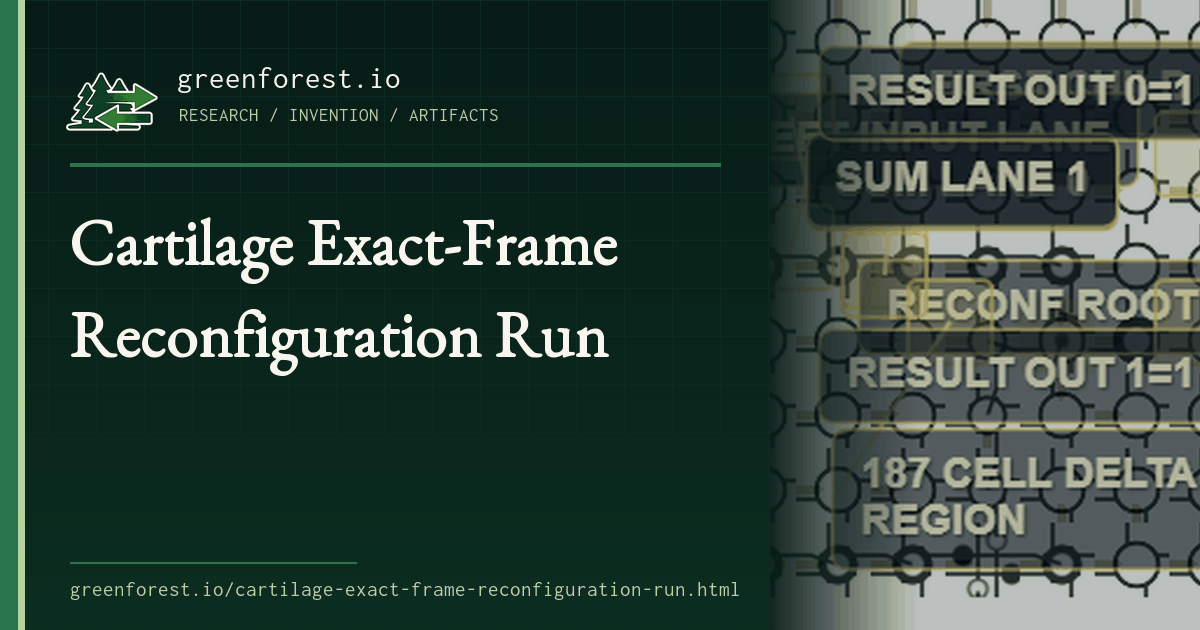
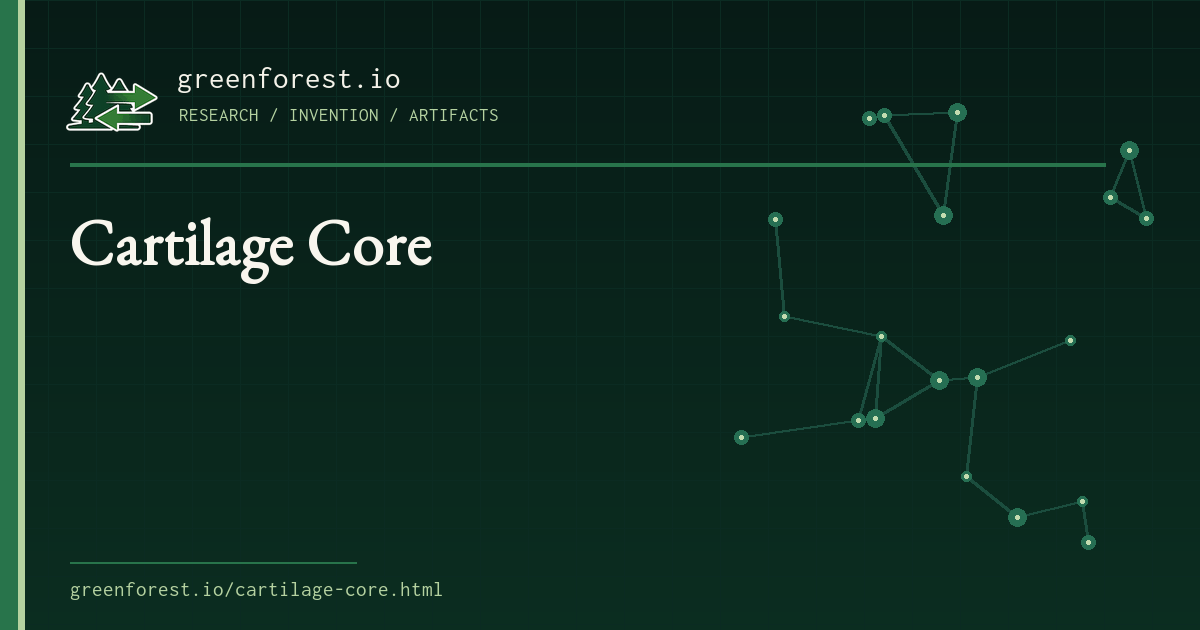
Retire broken Cartilage reconfiguration page

diff --git a/cartilage-exact-frame-reconfiguration-run.html b/cartilage-exact-frame-reconfiguration-run.html
@@ -1,200 +1,44 @@
-<!doctype html>
+<!DOCTYPE html>
 <html lang="en">
 
 <head>
     <meta charset="utf-8">
-    <meta name="viewport" content="width=device-width, initial-scale=1">
+    <meta name="viewport" content="width=device-width, initial-scale=1, viewport-fit=cover">
+    <title>Cartilage Core | Greenforest I/O</title>
+    <meta name="description" content="This retired Cartilage run page has been replaced by Cartilage Core, the current implementation, architecture paper, SystemVerilog RTL, and verification package.">
     <meta name="robots" content="noindex, follow">
-    <title>Cartilage Exact-Frame Reconfiguration Run</title>
-    <meta name="description" content="A full exact-frame Cartilage/QuadFlow browser-fabric run: 64x64 seed fabric, 525,568 committed updates, 525,569 decoded video frames, 7,956 QFG frames, and 704 expectations passing while a ripple-carry adder body is reconfigured 2-bit to 3-bit and back.">
-    <link rel="canonical" href="https://greenforest.io/cartilage-exact-frame-reconfiguration-run.html">
-    <meta property="og:title" content="Cartilage Exact-Frame Reconfiguration Run">
-    <meta property="og:description" content="A checked browser-fabric reconfiguration artifact with one recorded frame for the initial state and one after every committed update.">
-    <meta property="og:type" content="article">
-    <meta property="og:url" content="https://greenforest.io/cartilage-exact-frame-reconfiguration-run.html">
-        <link rel="icon" href="/favicon.ico">
-    <!-- greenforest:share-metadata:start -->
-    <!-- greenforest:preview-source:cartilage/codex5.5/reconfigurable-ripple-2to3to2-preserveguard-d64-final-detail.png -->
+    <link rel="canonical" href="https://greenforest.io/cartilage-core.html">
+    <meta http-equiv="refresh" content="0; url=/cartilage-core.html">
+    <link rel="icon" href="/favicon.ico">
     <meta property="og:site_name" content="Greenforest I/O">
+    <meta property="og:title" content="Cartilage Core">
+    <meta property="og:description" content="The current compact Cartilage implementation, architecture paper, RTL, and verification package.">
+    <meta property="og:type" content="website">
+    <meta property="og:url" content="https://greenforest.io/cartilage-core.html">
+    <!-- greenforest:share-metadata:start -->
+    <!-- greenforest:preview-source:none -->
     <meta property="og:image" content="https://greenforest.io/social-previews/cartilage-exact-frame-reconfiguration-run.png">
     <meta property="og:image:secure_url" content="https://greenforest.io/social-previews/cartilage-exact-frame-reconfiguration-run.png">
     <meta property="og:image:type" content="image/png">
     <meta property="og:image:width" content="1200">
     <meta property="og:image:height" content="630">
-    <meta property="og:image:alt" content="Cartilage Exact-Frame Reconfiguration Run - Greenforest I/O share preview">
+    <meta property="og:image:alt" content="Cartilage Core - Greenforest I/O share preview">
     <meta name="twitter:card" content="summary_large_image">
     <meta name="twitter:image" content="https://greenforest.io/social-previews/cartilage-exact-frame-reconfiguration-run.png">
-    <meta name="twitter:image:alt" content="Cartilage Exact-Frame Reconfiguration Run - Greenforest I/O share preview">
+    <meta name="twitter:image:alt" content="Cartilage Core - Greenforest I/O share preview">
     <script src="/site-analytics.js" defer></script>
     <!-- greenforest:share-metadata:end -->
-    <script type="application/ld+json">
-        {
-            "@context": "https://schema.org",
-            "@type": "Article",
-            "headline": "Cartilage Exact-Frame Reconfiguration Run",
-            "author": {
-                "@type": "Person",
-                "name": "Brian Greenforest"
-            },
-            "datePublished": "2026-06-25",
-            "dateModified": "2026-07-10",
-            "image": "https://greenforest.io/cartilage/codex5.5/reconfigurable-ripple-2to3to2-preserveguard-d64-final-detail.png",
-            "description": "A full exact-frame Cartilage/QuadFlow browser-fabric run: 64x64 seed fabric, 525,568 committed updates, 525,569 decoded video frames, 7,956 QFG frames, and 704 expectations passing while a ripple-carry adder body is reconfigured 2-bit to 3-bit and back.",
-            "mainEntityOfPage": "https://greenforest.io/cartilage-exact-frame-reconfiguration-run.html",
-            "publisher": {
-                "@type": "Person",
-                "name": "Brian Greenforest"
-            }
-        }
-    </script>
     <script src="/common-script.js" type="text/javascript"></script>
 </head>
 
-<body>
-    <header>Cartilage Exact-Frame Reconfiguration Run</header>
-    <address>June 25, 2026</address>
-
-    <section class="abstract">
-        <p>The fabric body changes while the edge discipline stays readable.</p>
-        <p>This package records one complete browser-hosted Cartilage fabric run. A seeded 64x64 fabric is driven through 525,568 committed updates by a QuadFlow/Cartilage QFG stream, while a ripple-carry adder body is reconfigured from a 2-bit body to a 3-bit body and then back to a preserved 2-bit body.</p>
-        <p>The important engineering claim is the lockstep capture rule: the recorder stores one initial frame, then one video frame after every committed fabric update. The compressed publication MP4 and the local canonical WebM both decode to 525,569 frames.</p>
-        <div class="status-box">
-            <p><span class="status-label">Recorded run package</span>This page is part of the <a href="/ai-assisted-cartilage-draft-archive.html">Cartilage Run and Sketch Index</a>.</p>
-            <p><strong>Included:</strong> <code>64x64</code> seed fabric, <code>525,568</code> committed updates, <code>525,569</code> decoded frames, <code>7,956</code> QFG frames, <code>704/704</code> expectations passed, and the 2-bit to 3-bit to 2-bit reconfiguration arc.</p>
-            <p><strong>Package focus:</strong> the exact 525,568-update run, final frame, timeline checkpoints, generated media, and source artifacts that reproduce this render path.</p>
-        </div>
-    </section>
-
+<body class="article-structured">
+    <header><h1 class="page-title">Cartilage Core</h1></header>
     <main>
-        <section>
-            <h1>The Run Claim</h1>
-            <p>This is not a sampled timeline page. The exact-frame package records every committed update in the run: 525,568 fabric updates plus the initial state. The QFG stream contains 7,956 parsed frame declarations and 704 expectations; all 704 passed.</p>
-            <ul class="metric-list">
-                <li>Fabric grid: 64 x 64 cells.</li>
-                <li>Seed cells: 4,096 explicit primitive cells.</li>
-                <li>QFG frames: 7,956.</li>
-                <li>Fabric updates: 525,568.</li>
-                <li>Recorded frames: 525,569.</li>
-                <li>Expectation result: 704 / 704 passed.</li>
-                <li>Final active boundary outputs: right edge positions 16 and 34.</li>
-            </ul>
-        </section>
-
-        <section>
-            <h1>Publication Video</h1>
-            <figure class="timeline-media">
-                <video controls preload="metadata" poster="/cartilage/codex5.5/reconfigurable-ripple-2to3to2-preserveguard-d64-final-detail.png">
-                    <source src="/cartilage/codex5.5/reconfigurable-ripple-2to3to2-preserveguard-d64-exact-525568-compressed.mp4" type="video/mp4">
-                    <a href="/cartilage/codex5.5/reconfigurable-ripple-2to3to2-preserveguard-d64-exact-525568-compressed.mp4">Open the compressed MP4</a>
-                </video>
-                <figcaption>Compressed H.264 publication copy of the exact-frame capture. The verification JSON reports 525,569 decoded MP4 frames, matching the local canonical WebM frame count.</figcaption>
-            </figure>
-            <p>The canonical VP9 WebM is preserved locally in the same package, but it is about 221 MB and is intentionally not committed to this web repository. The committed MP4 is about 25 MB and keeps the same decoded frame count for publication.</p>
-        </section>
-
-        <section>
-            <h1>Final State</h1>
-            <figure class="timeline-media">
-                <a href="/cartilage/codex5.5/reconfigurable-ripple-2to3to2-preserveguard-d64-final.png">
-                    <img src="/cartilage/codex5.5/reconfigurable-ripple-2to3to2-preserveguard-d64-final-detail.png" alt="Cropped detail of the final Cartilage fabric state for the exact-frame reconfigurable ripple-carry adder run">
-                </a>
-                <figcaption>Cropped detail from the final committed frame. Open the image for the full 512x512 final render.</figcaption>
-            </figure>
-        </section>
-
-        <section>
-            <h1>What Reconfigured</h1>
-            <p>The QFG source describes a browser/GLSL-native reconfigurable ripple-carry adder run. The run starts as a stable 2-bit body, streams a physical 187-cell delta component into a root-owned Cartilage subtree, grows the body to 3 bits, and later drives the same region back to the preserved 2-bit body.</p>
-            <p>The run note identifies the reconfiguration root as <code>(25,28)</code> with parent top and first child <code>(25,29)</code>. It reports a maximum tree depth of 57 and a dwell value of 64. The target sequence after the initial 2-bit check is <code>3 -&gt; 2</code>.</p>
-        </section>
-
-        <section>
-            <h1>Boundary I/O Discipline</h1>
-            <p>The browser host receives primitive seed cells and boundary/edge value frames. During execution, the driver does not address arbitrary internal cells by global coordinate. It streams values through the exposed edge surface and advances the fabric one committed update at a time.</p>
-            <p>The key runtime repair for this package is that edgecell <code>pwr</code>/<code>gnd</code> declarations are treated as boundary metal drives, not as whole boundary-cell rewrites. That preserves parent pointers and configuration ownership while still allowing the host to drive the inward-facing Sinew metal bit.</p>
-            <pre><code>edgecell left 4 pwr parent right
-now drives only left.sinew_right[4]
-instead of rewriting the whole boundary cell body</code></pre>
-        </section>
-
-        <section>
-            <h1>Lockstep Timing</h1>
-            <p>For each QFG frame, the driver stages the sparse boundary writes, performs exactly one fabric update, and records the resulting canvas frame. The package note describes the rule as one initial frame before computation plus one frame after each committed fabric update.</p>
-            <p>That is why the arithmetic is in the counts: <code>525,568</code> fabric updates produce <code>525,569</code> recorded frames. The video is not a screen recording that happens to show a run. It is a frame-source capture driven by the browser canvas after each committed update.</p>
-        </section>
-
-        <section>
-            <h1>Checkpoint Frames</h1>
-            <p>The package also includes 20 checkpoint PNGs for quick inspection. These are not a replacement for the exact-frame video; they are convenient stills from the same run.</p>
-            <div class="checkpoint-grid">
-                <figure>
-                    <a href="/cartilage/codex5.5/frames/codex55-reconfigurable-ripple-exact-cycle-000000.png">
-                        <img src="/cartilage/codex5.5/frames/codex55-reconfigurable-ripple-exact-cycle-000000.png" alt="Checkpoint frame at cycle 0">
-                    </a>
-                    <figcaption>Cycle 0.</figcaption>
-                </figure>
-                <figure>
-                    <a href="/cartilage/codex5.5/frames/codex55-reconfigurable-ripple-exact-cycle-276615.png">
-                        <img src="/cartilage/codex5.5/frames/codex55-reconfigurable-ripple-exact-cycle-276615.png" alt="Checkpoint frame at cycle 276,615">
-                    </a>
-                    <figcaption>Cycle 276,615.</figcaption>
-                </figure>
-                <figure>
-                    <a href="/cartilage/codex5.5/frames/codex55-reconfigurable-ripple-exact-cycle-525568.png">
-                        <img src="/cartilage/codex5.5/frames/codex55-reconfigurable-ripple-exact-cycle-525568.png" alt="Checkpoint frame at cycle 525,568">
-                    </a>
-                    <figcaption>Cycle 525,568.</figcaption>
-                </figure>
-            </div>
-        </section>
-
-        <section>
-            <h1>Artifact Bundle</h1>
-            <p>The committed publication bundle is under <code>cartilage/codex5.5/</code>. These links point to concrete files; the oversized canonical WebM is intentionally excluded from git.</p>
-            <ul class="artifact-list">
-                <li><a href="/cartilage/codex5.5/reconfigurable-ripple-2to3to2-preserveguard-d64.md">package note</a> - human-readable summary of the run, artifacts, counts, and runtime repair.</li>
-                <li><a href="/cartilage/codex5.5/reconfigurable-ripple-2to3to2-preserveguard-d64-verification.json">verification JSON</a> - generated frame counts, byte counts, and ffprobe summaries for WebM and MP4.</li>
-                <li><a href="/cartilage/codex5.5/reconfigurable-ripple-2to3to2-preserveguard-d64-final.png">full final PNG</a> and <a href="/cartilage/codex5.5/reconfigurable-ripple-2to3to2-preserveguard-d64-final-detail.png">cropped final detail</a> - final committed visual state and publication preview crop.</li>
-                <li><a href="/cartilage/codex5.5/reconfigurable-ripple-2to3to2-preserveguard-d64-run-report.md">raw run report</a> - browser expectation trace and run metadata.</li>
-                <li><a href="/cartilage/codex5.5/samples/cartilage3-host.html">generated self-contained browser host</a> - the published QFG driver/host artifact; treat it as generated run machinery, not as a hand-maintained article.</li>
-                <li><a href="/cartilage/codex5.5/codex55-full-exact-stdout.log">stdout log</a> and <a href="/cartilage/codex5.5/codex55-full-exact-stderr.log">stderr log</a> - the stderr log is empty for this run.</li>
-                <li><a href="/cartilage/codex5.5/samples/tmp-reconfigurable-ripple-2to3to2-preserveguard-d64.qfg">main QFG sample</a> - generated 2-bit to 3-bit to 2-bit stream.</li>
-                <li><a href="/cartilage/codex5.5/samples/reconfigurable-ripple-2to3to2-preserveguard-d64-callouts.surface.qfg">callout surface QFG</a> - publication labels for the final rendered fabric.</li>
-                <li><a href="/cartilage/codex5.5/samples/browser-edgecell-as-sinew-metal-preserve.qfg">edge I/O regression fixture</a> - checks the ownership-preserving edgecell behavior.</li>
-                <li><a href="/cartilage/codex5.5/docs/QUADFLOW_CARTILAGE_SEMANTICS.md">QuadFlow Cartilage semantics</a>, <a href="/cartilage/codex5.5/docs/CARTILAGE3_SUBSTRATE_MAP.md">substrate map</a>, and <a href="/cartilage/codex5.5/docs/CARTILAGE_BROWSER_FABRIC_GOALS.md">browser fabric goals</a>.</li>
-            </ul>
-        </section>
-
-        <section>
-            <h1>Why This Package Shape</h1>
-            <p>The exact-frame capture is useful because it ties the video frame count to the fabric update count. The cost is file size: the canonical lossier-but-exact-frame WebM is still too large for normal git hosting, and the publication page uses the smaller MP4 copy for browser playback.</p>
-            <p>The next useful layer is not a more dramatic video. It is tighter reproduction packaging around the QFG generator, host driver, runtime ownership checks, and compact summaries of the 704 expectations.</p>
-        </section>
-        <section class="cartilage-visual-link">
-            <h1>Cartilage Visual Language</h1>
-            <p>The 32 Cartilage cell-role codes are a compact body-type alphabet: reconfiguration port, cross, constants, four wire orientations, and six MUX modes in four orientations. The <a href="/cartilage-visual-language.html">Cartilage Visual Language</a> article shows the rendered key and decodes all 32 codes.</p>
-        </section>
-
-        <section>
-            <h1>Current Core Reference</h1>
-            <p><a href="/cartilage-core.html">Cartilage Core</a> and the <a href="https://github.com/avesus/cartilage-core" target="_blank" rel="noopener">public source repository</a> are the current compact mechanism and hardware reference. They are not the source tree for this older QFG exact-frame run; use this page's bundle for claims about the capture above.</p>
-        </section>
-
-        <section>
-            <h1>Handoff Boundary</h1>
-            <p>The important audit points are boundary I/O discipline, frame accounting, and the QFG-to-fabric handoff. Those are the places where a hidden global assumption would matter.</p>
+        <section class="abstract">
+            <p>This retired run page is no longer presented as Cartilage evidence.</p>
+            <p>Continue to <a href="/cartilage-core.html">Cartilage Core</a> for the current compact implementation, architecture paper, SystemVerilog RTL, and verification package.</p>
         </section>
     </main>
-
-    <nav class="article-links">
-        <p>Read next:</p>
-        <a href="/ai-assisted-cartilage-draft-archive.html">Cartilage Run and Sketch Index</a>
-        <p>A guide to the Cartilage run, timeline, and sketch pages.</p>
-        <p>More:</p>
-        <a href="/cartilage-nested-instantiation-demo.html">Cartilage Nested-Instantiation Demo</a>
-        <p>The local-port and bounded-region fabric model behind the reconfiguration run.</p>
-        <a href="/">Go back</a>
-    </nav>
 </body>
 
 </html>

diff --git a/ai-assisted-cartilage-draft-archive.html b/ai-assisted-cartilage-draft-archive.html
@@ -59,11 +59,6 @@
                 },
                 {
                     "@type": "CreativeWork",
-                    "name": "Cartilage Exact-Frame Reconfiguration Run",
-                    "url": "https://greenforest.io/cartilage-exact-frame-reconfiguration-run.html"
-                },
-                {
-                    "@type": "CreativeWork",
                     "name": "Cartilage PC Stepper Islands",
                     "url": "https://greenforest.io/cartilage-pc-stepper-islands.html"
                 },
@@ -97,7 +92,7 @@
         <p>The set includes public source and RTL, a checked ripple-adder run, recorded reconfiguration timelines, visual placement sketches, source artifacts, and render outputs. The useful job is to keep each evidence layer easy to tell apart.</p>
         <div class="status-box">
             <p><span class="status-label">Cartilage index</span>Use this page to choose between current Cartilage explainers, checked runs, recorded timelines, and visual placement sketches.</p>
-            <p><strong>Included:</strong> the current core package, six run/sketch/debug links, their role in the Cartilage material, and the current reading order.</p>
+            <p><strong>Included:</strong> the current core package, five run/sketch/debug links, their role in the Cartilage material, and the current reading order.</p>
         </div>
     </section>
 
@@ -119,10 +114,9 @@
 
         <section>
             <h2>Run And Sketch Pages</h2>
-            <p>These six pages are useful when you need run material, source artifacts, rendered frames, placement sketches, or the small mux debug fixture.</p>
+            <p>These five pages are useful when you need run material, source artifacts, rendered frames, placement sketches, or the small mux debug fixture.</p>
             <ul>
                 <li><a href="/cartilage-verified-ripple2-adder.html">Cartilage Verified Ripple2 Adder</a></li>
-                <li><a href="/cartilage-exact-frame-reconfiguration-run.html">Cartilage Exact-Frame Reconfiguration Run</a></li>
                 <li><a href="/cartilage-pc-stepper-islands.html">Cartilage PC Stepper Islands</a></li>
                 <li><a href="/cartilage-full-adder-islands.html">Cartilage Full-Adder Islands</a></li>
                 <li><a href="/cartilage-quadflow-525568-cycle-timeline.html">Cartilage QuadFlow 525,568-Cycle Timeline</a></li>

diff --git a/cartilage-visual-language.html b/cartilage-visual-language.html
@@ -299,11 +299,6 @@
                     <p>Follow the configured wires, MUX islands, constants, crosses, labels, and edge outputs with the run context beside them.</p>
                 </article>
                 <article class="capability-card">
-                    <p class="eyebrow">Reconfiguration sequence</p>
-                    <h3><a href="/cartilage-exact-frame-reconfiguration-run.html">Exact-Frame Reconfiguration</a></h3>
-                    <p>Inspect the final detail only after the page explains the frame sequence and evidence boundary.</p>
-                </article>
-                <article class="capability-card">
                     <p class="eyebrow">Composition</p>
                     <h3><a href="/cartilage-nested-instantiation-demo.html">Nested Instantiation</a></h3>
                     <p>See how the same roles participate in a parent-owned configuration stream and bounded daughter region.</p>